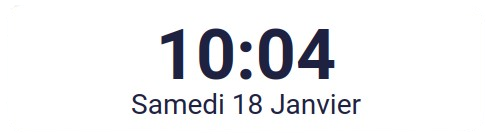
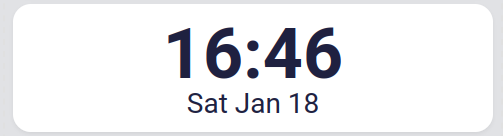
new settings for date formatting

diff --git a/simple-clock-card.js b/simple-clock-card.js
@@ -1,6 +1,6 @@
 class SimpleClock extends HTMLElement {
     static NAME = "Simple Clock Card";
-    static VERSION = "0.2.3";
+    static VERSION = "0.2.4";
 
     set hass(hass) {
         if (!this.content) {
@@ -25,27 +25,24 @@ class SimpleClock extends HTMLElement {
         const now = new Date();
         let timeOptions = { hour: '2-digit', minute: '2-digit' };
 
-        if (this.isTrue(this.showSeconds)) {
-            timeOptions.second = '2-digit';
-        }
+        if (this.isTrue(this.showSeconds)) timeOptions.second = '2-digit';
 
         let time = now.toLocaleTimeString([], timeOptions);
 
         this.timeDiv.innerHTML = time;
         this.timeDiv.style.fontSize = this.hourFontSize;
 
-        if (this.isTrue(this.hourBoldText)) {
-            this.timeDiv.style.fontWeight = "bold";
-        }
+        if (this.isTrue(this.hourBoldText)) this.timeDiv.style.fontWeight = "bold";
     }
 
     getDate() {
         const now = new Date();
-        let dateOptions = { weekday: 'long', month: 'long', day: 'numeric' };
+        let dateOptions = { day: 'numeric' };
         
-        if (this.isTrue(this.showYear)) {
-            dateOptions.year = 'numeric';
-        }
+        dateOptions.weekday = (this.weekdayFormat === 'short') ? 'short' : 'long';
+        dateOptions.month = (this.monthFormat === 'short') ? 'short' : 'long';
+
+        if (this.isTrue(this.showYear)) dateOptions.year = 'numeric';
 
         let date = now.toLocaleDateString(this.localeDate, dateOptions).replace(',', '');
 
@@ -55,9 +52,7 @@ class SimpleClock extends HTMLElement {
                 .join(' ');
         }
 
-        if (this.localeDate.startsWith('fr')) {
-            date = date.replace(/\b1\b/, '1er');
-        }
+        if (this.localeDate.startsWith('fr')) date = date.replace(/\b1\b/, '1er');
 
         this.dateDiv.innerHTML = date;
         this.dateDiv.style.fontSize = this.dateFontSize;
@@ -95,6 +90,8 @@ class SimpleClock extends HTMLElement {
         this.showSeconds = config.show_seconds || false;
         this.dateFontSize = config.date_font_size || '2em';
         this.dateCapitalize = config.date_capitalize || false;
+        this.weekdayFormat = config.weekday_format || 'long'; 
+        this.monthFormat = config.month_format || 'long';
         this.showYear = config.show_year || false;
         this.localeDate = config.locale_date || 'en-US';
     }

diff --git a/README.md b/README.md
@@ -42,9 +42,11 @@ type: custom:simple-clock
 | show_seconds | No | Show seconds | boolean | false
 | date_font_size | No | Define date font size | string | 2em
 | date_capitalize | No | Capitalize date (day and month) | boolean | false
+| weekday_format | No | Put the weekday in *short* or *long* format | string | long
+| month_format | No | Put the month in *short* or *long* format | string | long
 | show_year | No | Show year | boolean | false
 | locale_date | No | Define locale for date | string | en-US
 
-## Exemple
+## Example
 
-![Configuration example](/docs/images/exemple.png)
+![Configuration example](/docs/images/example.png)
